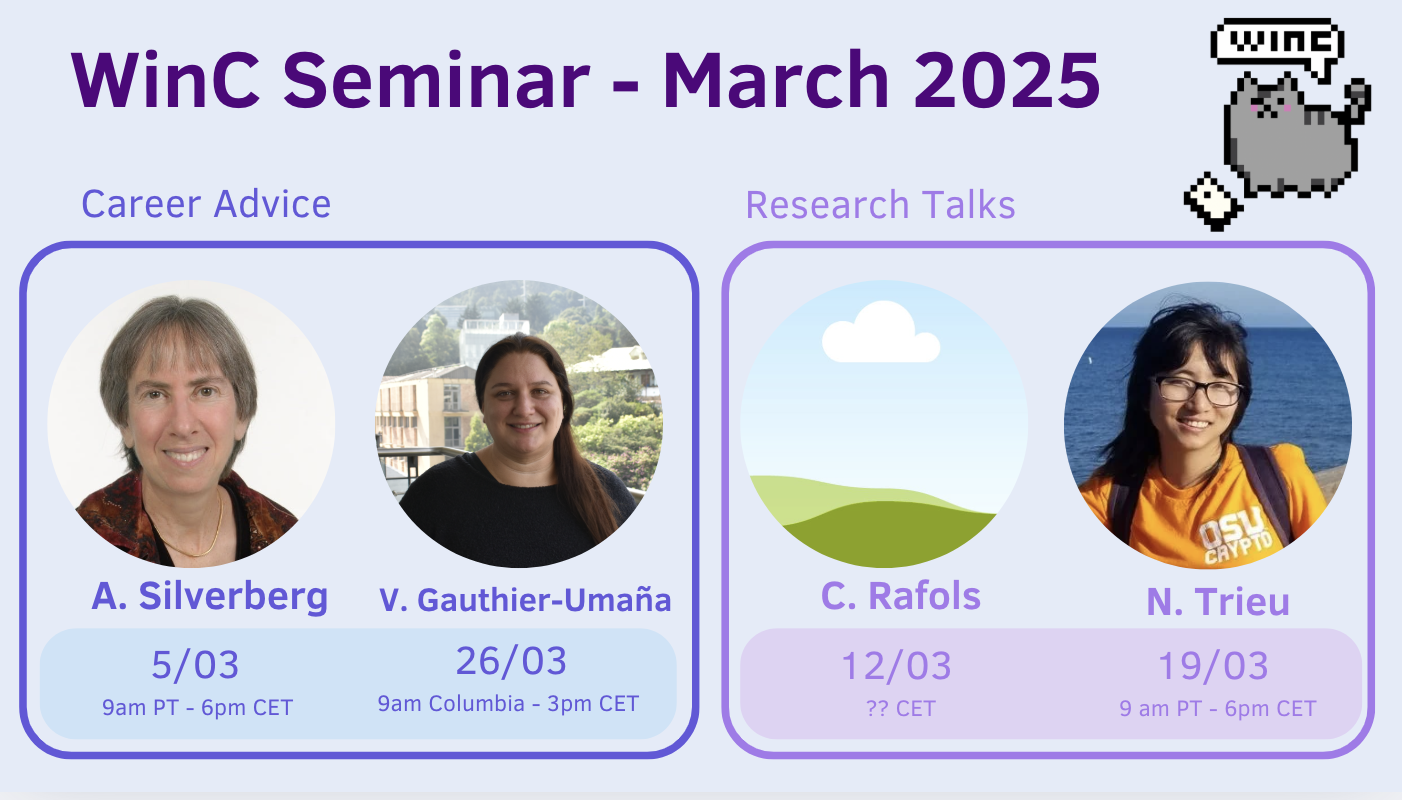
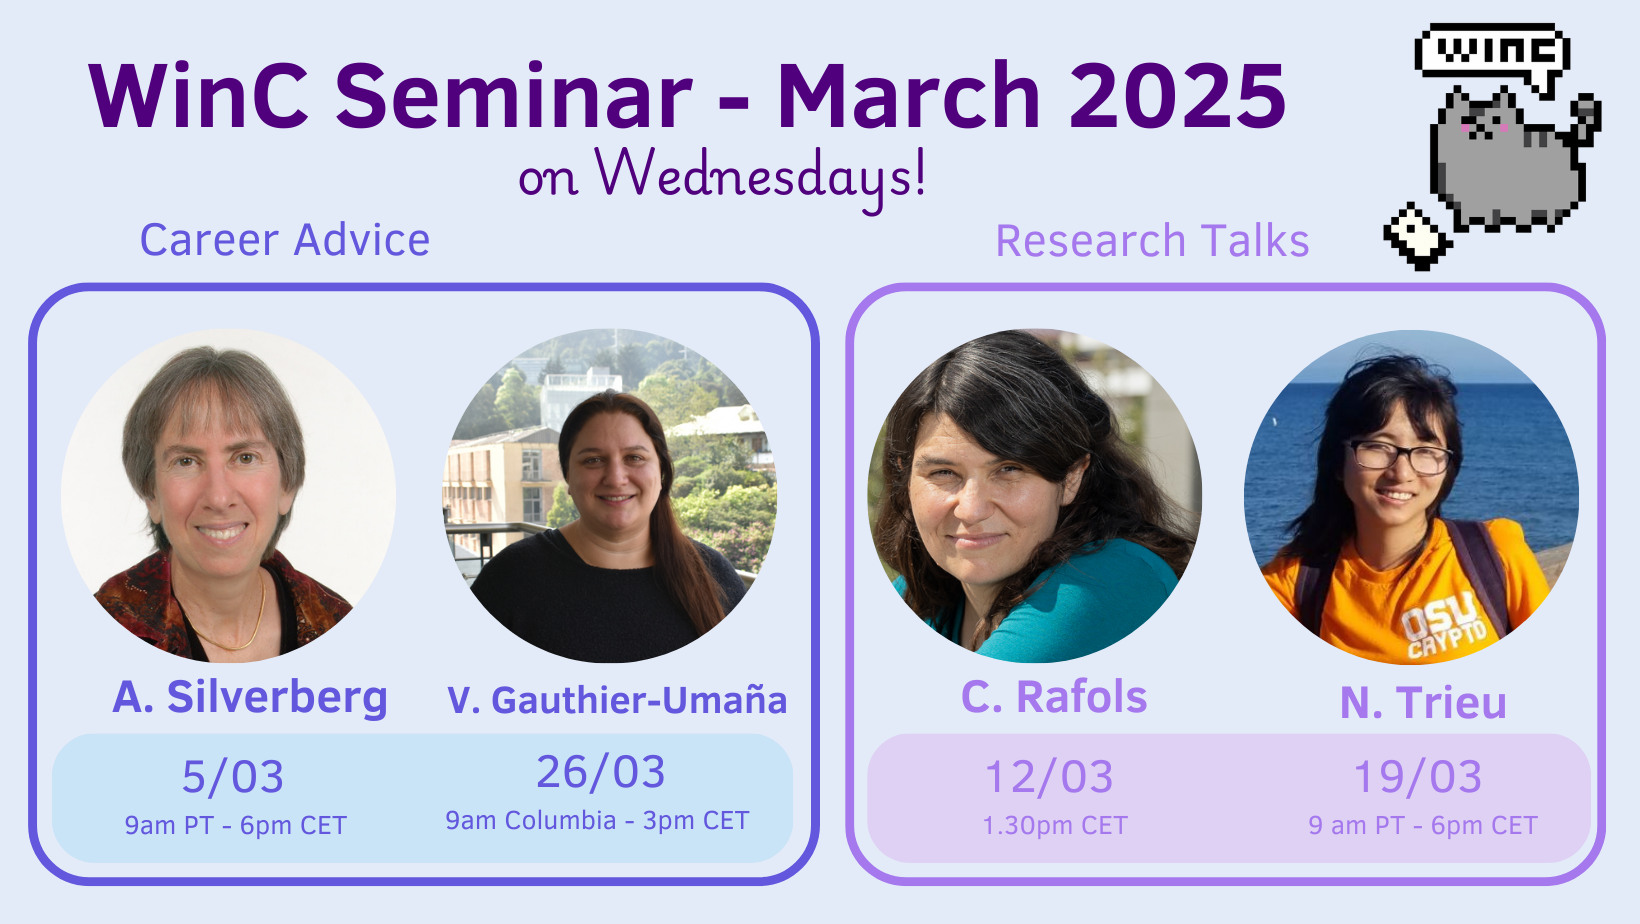
updated seminar information

Changed region(s): [[0.0, 0.2188, 0.9815, 0.9688], [0.0307, 0.0, 0.9815, 0.3438]]

diff --git a/seminar.html b/seminar.html
@@ -22,7 +22,7 @@ tags: menu
 
 <div class="regular-description-fixed">
   <h2>3rd Edition of WinC Seminar March 2025</h2>
-	<p>We will host our second WinC Seminar between May and June 2025.</p>
+	<p>We will host our third WinC Seminar in March 2025.</p>
   <!--<p>Register <a href="https://docs.google.com/forms/d/1Y7GCPviGub_nPo5DMyFjyOI7LfirwPFNGg5oSRy4r3A " target="_blank">here</a> or join our discord.</p>-->
   <p>We will have this amazing set of speakers:</p>
 
@@ -36,8 +36,8 @@ tags: menu
 			<p><a href="https://scholar.google.com/citations?user=Vv_Vh60AAAAJ&hl=es" target="_blank">Valerie Gauthier-Umaña</a></p>
     </figure>
     <figure class=”gallery__item gallery__item--3">
-      <img src="/images/winc-seminar.png" class="gallery__img" alt="Carla Rafols photo" />
-			<p><a href="" target="_blank">Carla Rafols</a></p>
+      <img src="/images/seminar/carla-rafols-image.png" class="gallery__img" alt="Carla Rafols photo" />
+			<p><a href="https://scholar.google.com/citations?user=fqaUFgQAAAAJ&hl=en" target="_blank">Carla Ràfols</a></p>
     </figure>
     <figure class=”gallery__item gallery__item--4">
       <img src="/images/seminar/ni-trieu-image.jpg" class="gallery__img" alt="Ni Trieu photo" />
@@ -59,7 +59,9 @@ tags: menu
 		<p><i>Ni Trieu</i> is an Assistant Professor of computer science at Arizona State University. Her research interests are in the area of cryptography and security, with a specific focus on secure computation and its applications such as private set intersection, private database queries, and privacy-preserving machine learning. Before joining ASU, she was a postdoc at UC Berkeley. She received her PhD degree from Oregon State University.</p>
 		<!--<p>The zoom link for this event is: <a href="https://epfl.zoom.us/j/68331978395?pwd=wJcba0Z6xx2VPQMoY0lmmck4GVyKGC.1" target="_blank">https://epfl.zoom.us/j/68331978395?pwd=wJcba0Z6xx2VPQMoY0lmmck4GVyKGC.1</a>.</p>-->
 		</li>
-    <li><p><b>12th of March at TBD CET:</b> <i>To be announced</i> by Carla Rafols.</p>
+    <li><p><b>12th of March at TBD CET:</b> <i>Advances in Succinct Non-Interactive Proofs</i> by Carla Rafols.</p>
+        <p> <i>Carla Ràfols</i> is a cryptographer based in Barcelona and an Assistant Professor at Pompeu Fabra University. Previously, she was a Marie Curie Fellow at the same university and a postdoctoral researcher at the Foundations of Cryptography Chair at Ruhr University Bochum. In the last few years, her research has focused on advancing both the practical and theoretical aspects of zero-knowledge proofs, with a focus on enhancing their efficiency and applicability.
+        </p>
 		<!--<p>The zoom link for this event is: <a href="https://epfl.zoom.us/j/64379560785?pwd=OUFTcEFhNjBwQ2tEYk0rejlwVHJoQT09" target="_blank">https://epfl.zoom.us/j/64379560785?pwd=OUFTcEFhNjBwQ2tEYk0rejlwVHJoQT09</a>.</p>-->
 		</li>
   	<li><p><b>26th of March at 15.00pm CET:</b> <i>Career Advice </i> by Valerie Gauthier-Umaña.</p>
